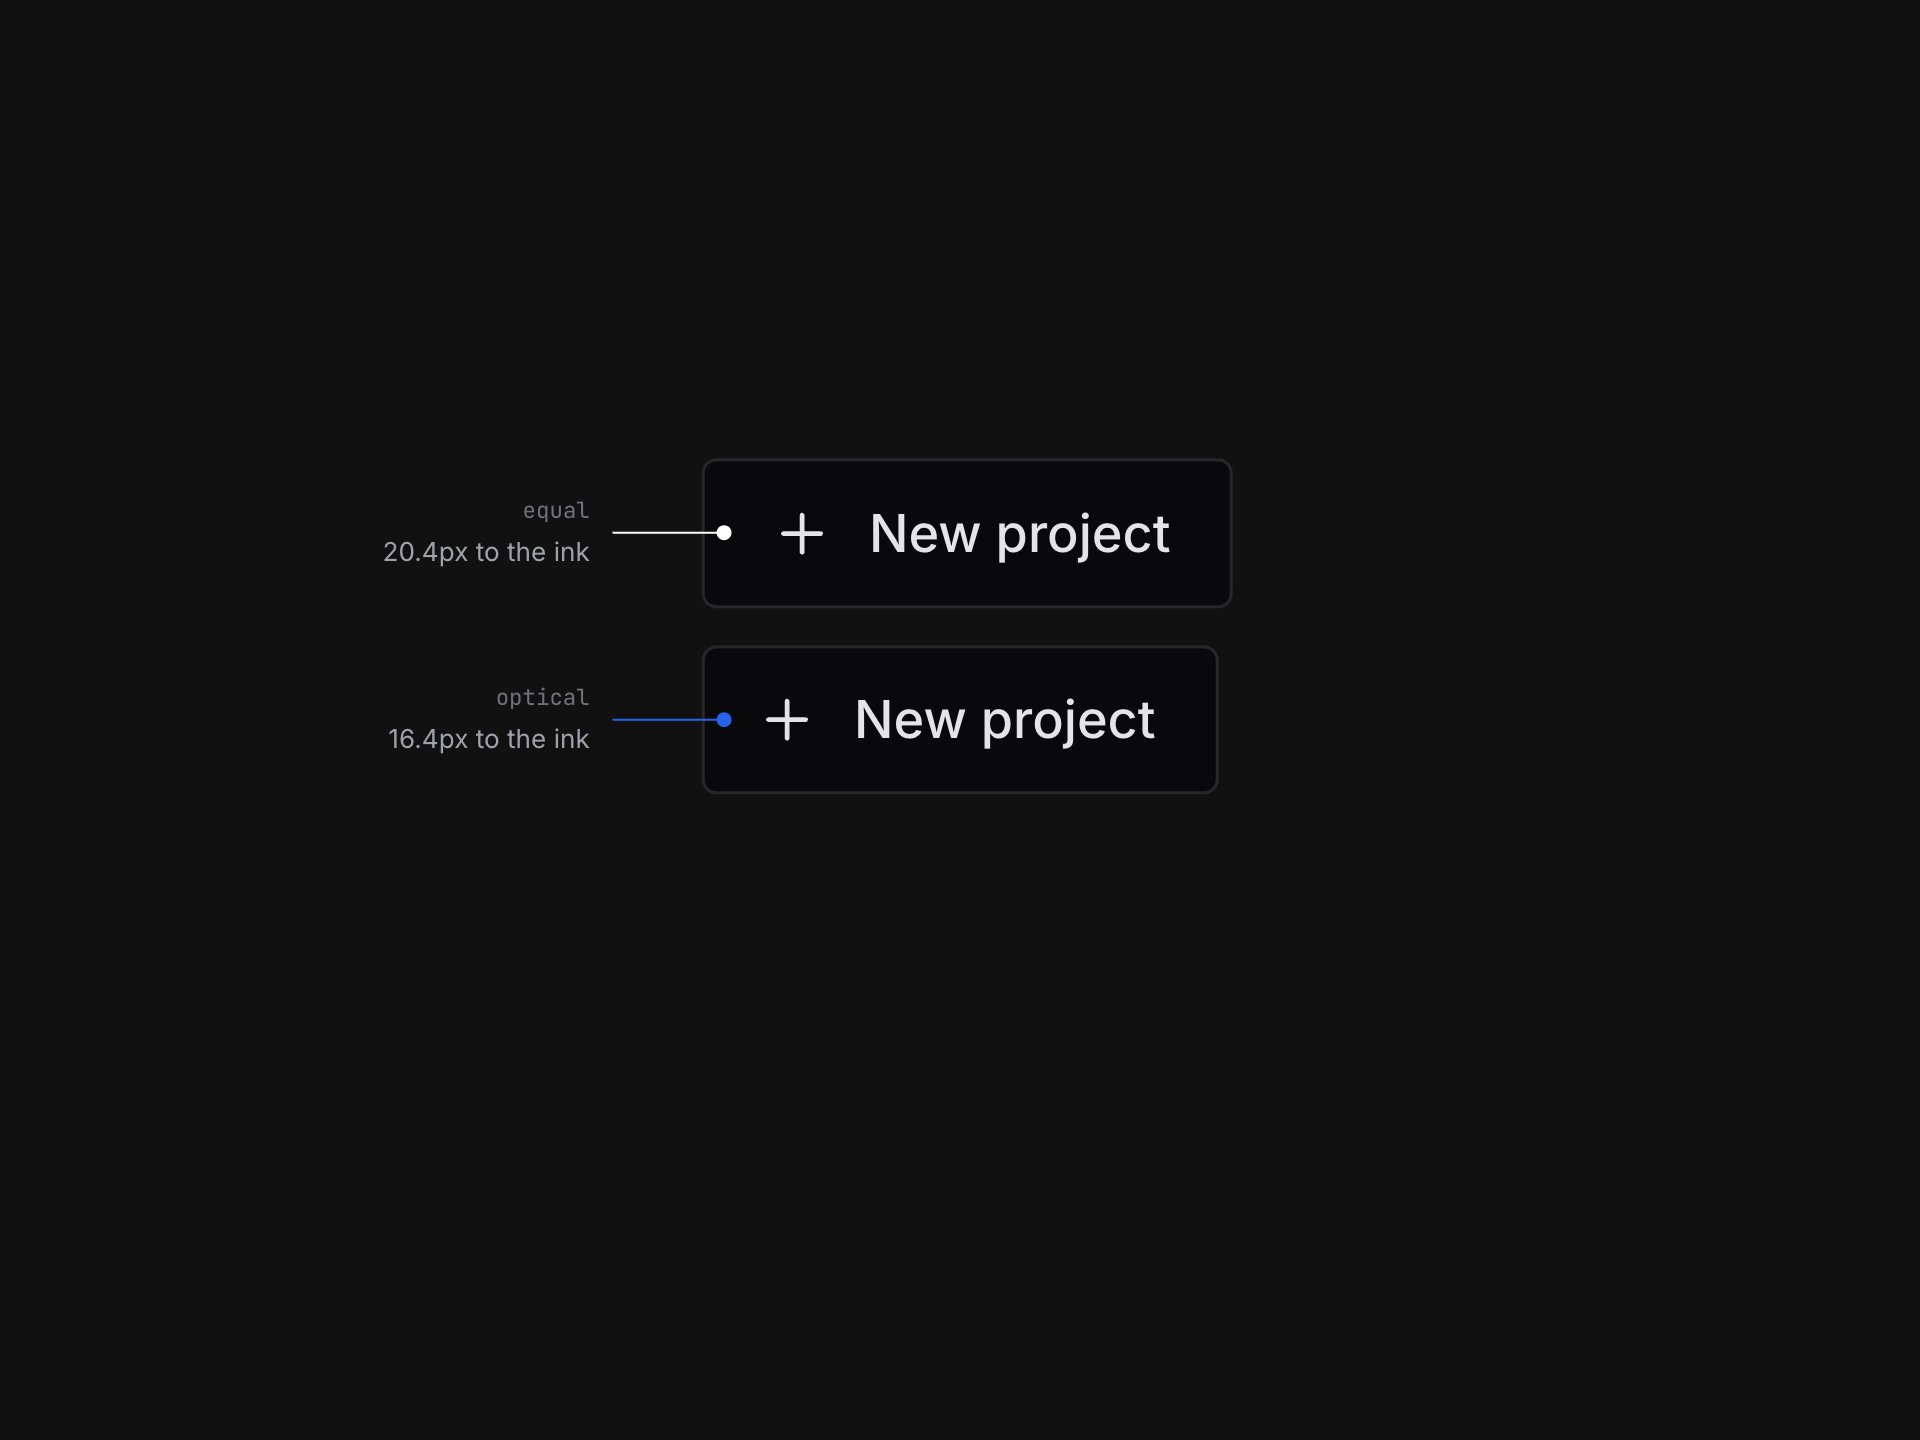
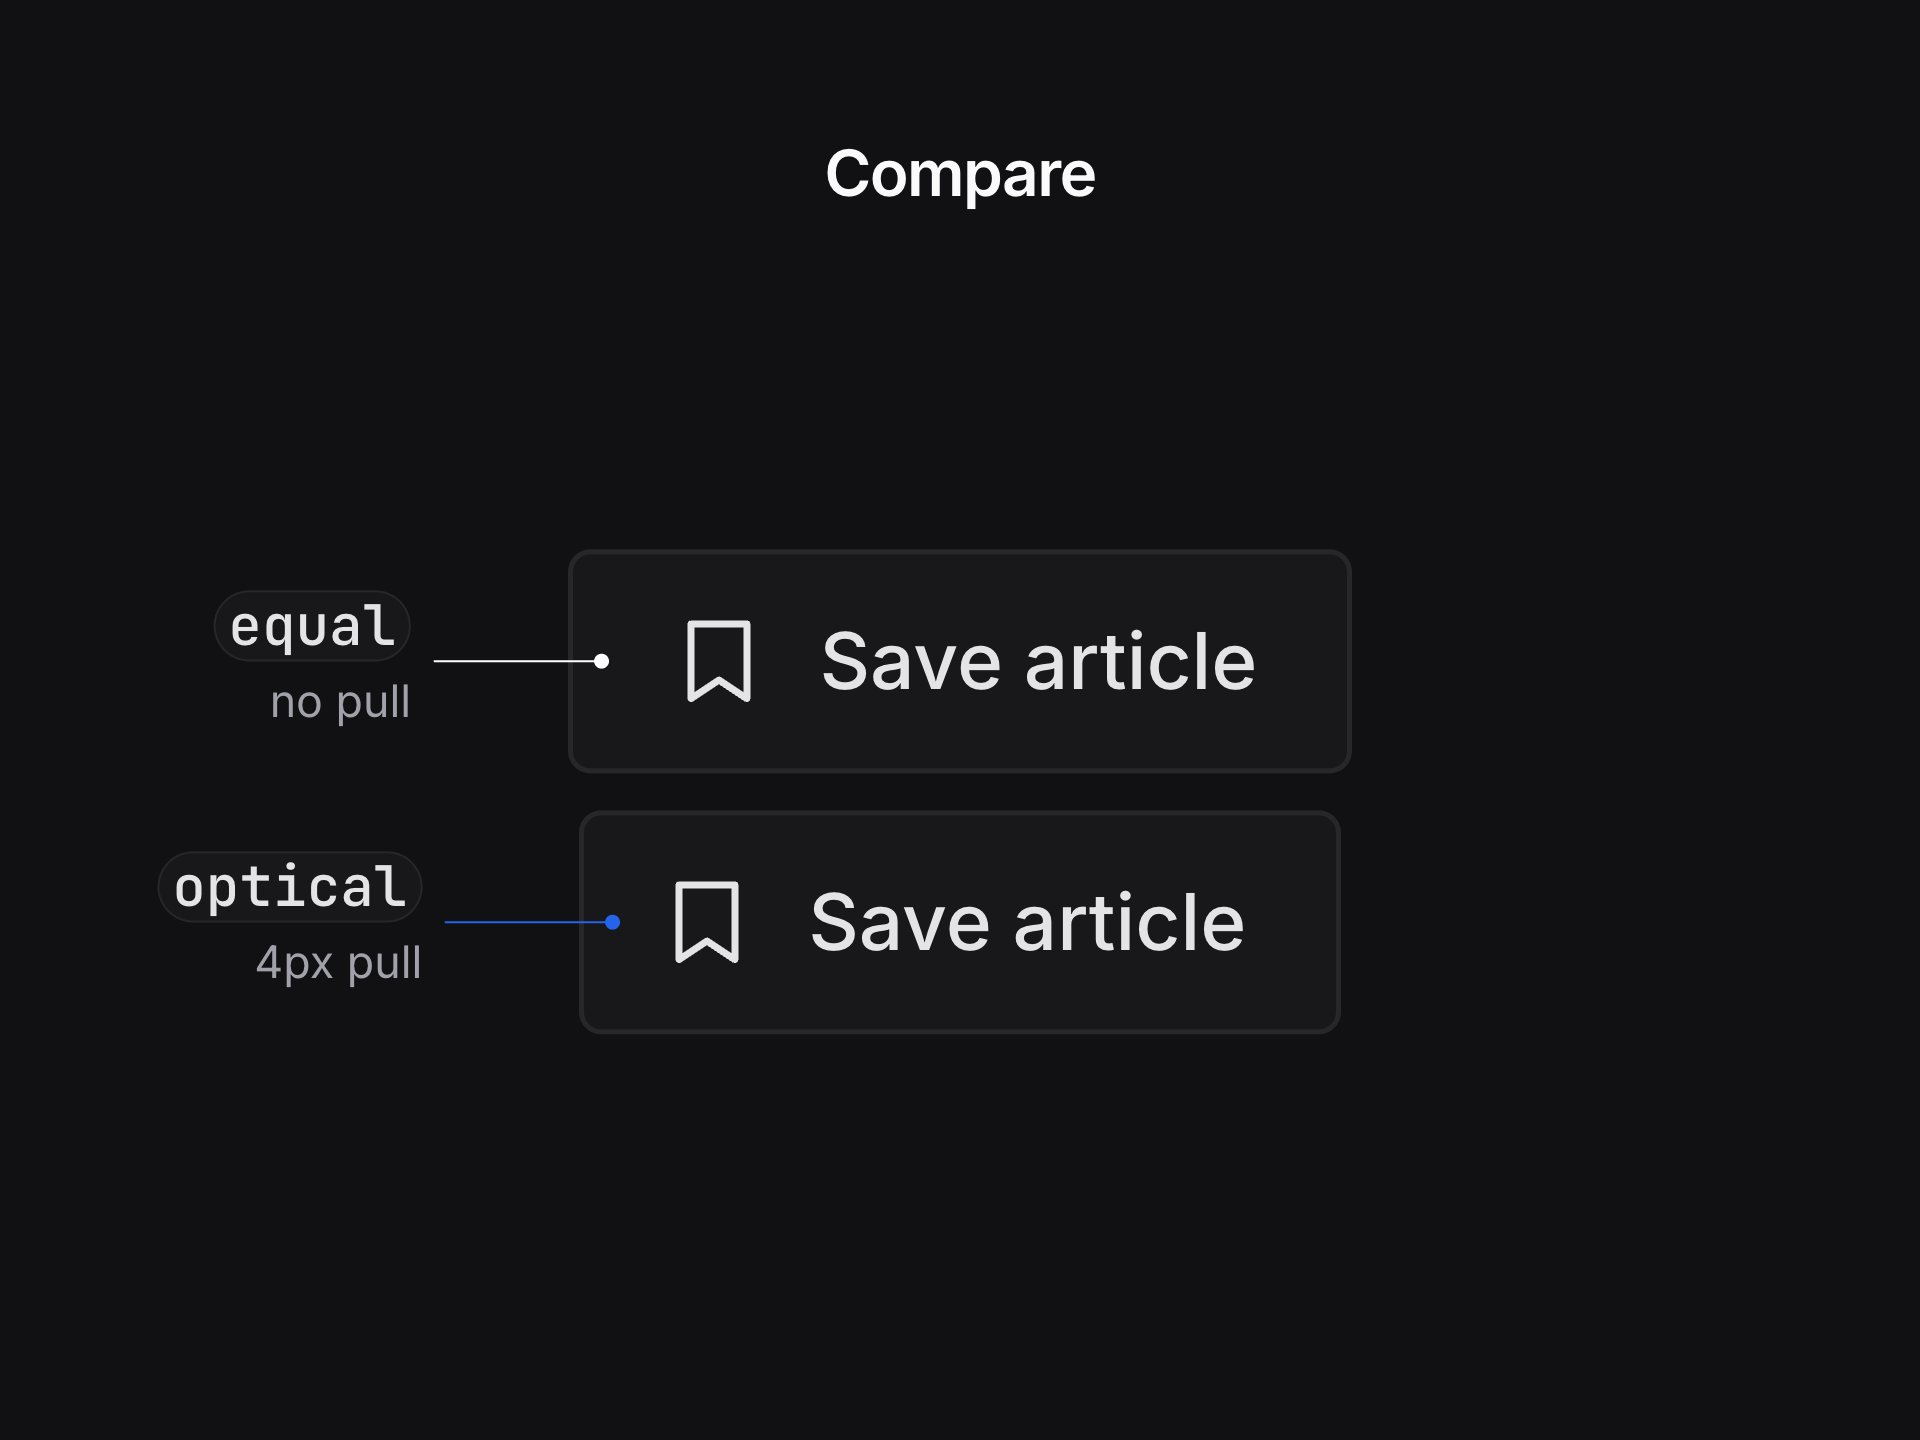
feat(www): meta descriptions and share previews for the optical post and Caliper docs

diff --git a/apps/www/app/(site)/blog/[slug]/page.tsx b/apps/www/app/(site)/blog/[slug]/page.tsx
@@ -17,11 +17,29 @@ export function generateStaticParams() {
 export async function generateMetadata({ params }: PostRouteProps): Promise<Metadata> {
   const post = getPost((await params).slug)
   if (!post) return {}
+  const description = post.metaDescription ?? post.description
+  const poster = post.poster && { url: `${SITE_URL}${post.poster}`, width: 1920, height: 1440, alt: post.title }
   return {
     title: post.title,
-    description: post.description,
+    description,
     alternates: { canonical: `${SITE_URL}${post.permalink}` },
-    openGraph: { type: "article", publishedTime: post.date },
+    openGraph: {
+      type: "article",
+      url: `${SITE_URL}${post.permalink}`,
+      title: post.title,
+      description,
+      publishedTime: post.date,
+      images: poster ? [poster] : undefined,
+      videos: post.video
+        ? [{ url: `${SITE_URL}${post.video}`, type: "video/mp4", width: 1920, height: 1440 }]
+        : undefined,
+    },
+    twitter: {
+      card: poster ? "summary_large_image" : "summary",
+      title: post.title,
+      description,
+      images: poster ? [poster.url] : undefined,
+    },
   }
 }
 

diff --git a/apps/www/velite.config.ts b/apps/www/velite.config.ts
@@ -131,6 +131,7 @@ const tools = defineCollection({
       install: s.array(s.string()).optional(),
       devDependency: s.boolean().default(true),
       description: s.string().max(999),
+      metaDescription: s.string().max(160).optional(),
       order: s.number().default(0),
       category: s.string(),
       icon: s.string().default("tool"),
@@ -166,8 +167,11 @@ const posts = defineCollection({
     .object({
       title: s.string().max(99),
       description: s.string().max(999),
+      metaDescription: s.string().max(160).optional(),
       date: s.isodate(),
       draft: s.boolean().default(false),
+      video: s.string().optional(),
+      poster: s.string().optional(),
       path: s.path(),
       toc: s.toc(),
       metadata: s.metadata(),

diff --git a/apps/www/app/(site)/tools/[slug]/page.tsx b/apps/www/app/(site)/tools/[slug]/page.tsx
@@ -17,10 +17,13 @@ export function generateStaticParams() {
 export async function generateMetadata({ params }: ToolRouteProps): Promise<Metadata> {
   const tool = getTool((await params).slug)
   if (!tool) return {}
+  const description = tool.metaDescription ?? tool.description
   return {
     title: tool.title,
-    description: tool.description,
+    description,
     alternates: { canonical: `${SITE_URL}${tool.permalink}` },
+    openGraph: { type: "website", url: `${SITE_URL}${tool.permalink}`, title: tool.title, description },
+    twitter: { card: "summary", title: tool.title, description },
   }
 }
 
